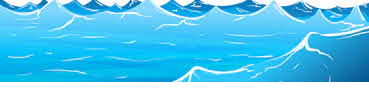
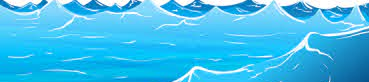
added images

diff --git a/raindroppuzzle/raingame.html b/raindroppuzzle/raingame.html
@@ -11,7 +11,7 @@
             {
                 width: 75px;
                 height: 75px;
-                background-color: #d4f1f9;
+                background-color: blue;
                 transform: rotate(-45deg);
                 border-radius: 50%;
                 border-top-right-radius: 0%;
@@ -82,7 +82,7 @@
              </div>
              
              <div class="water ">
-                 <img src="water1.png" class="img" alt="">
+                 <img src="water.png" class="img" alt="">
              </div>
         </div>
     </main>
